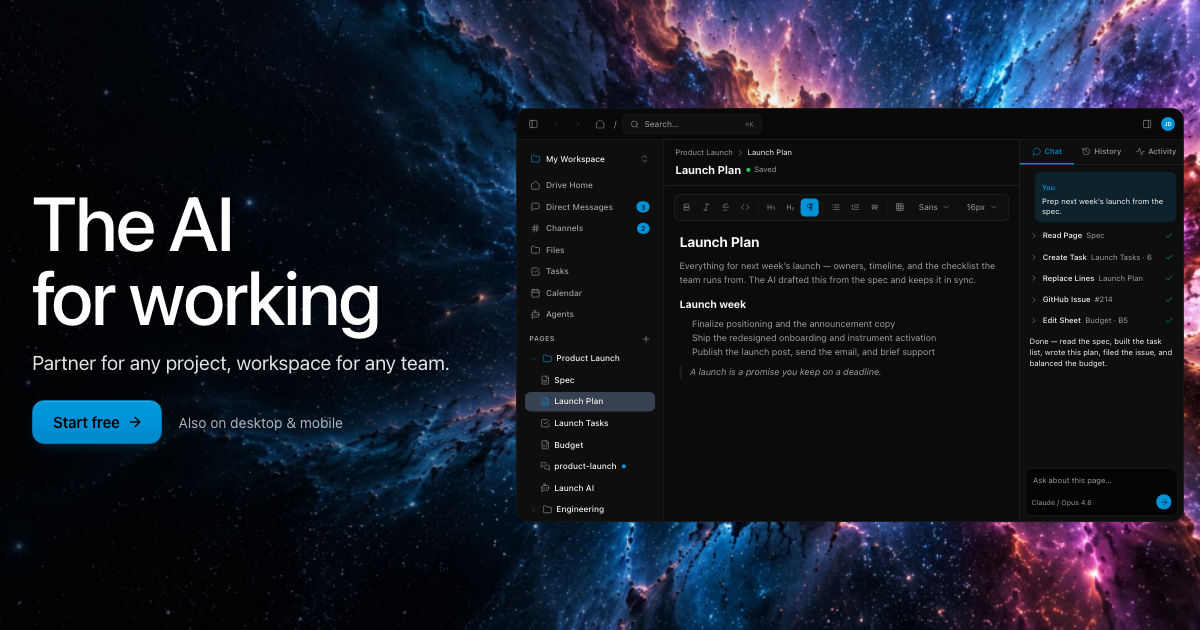
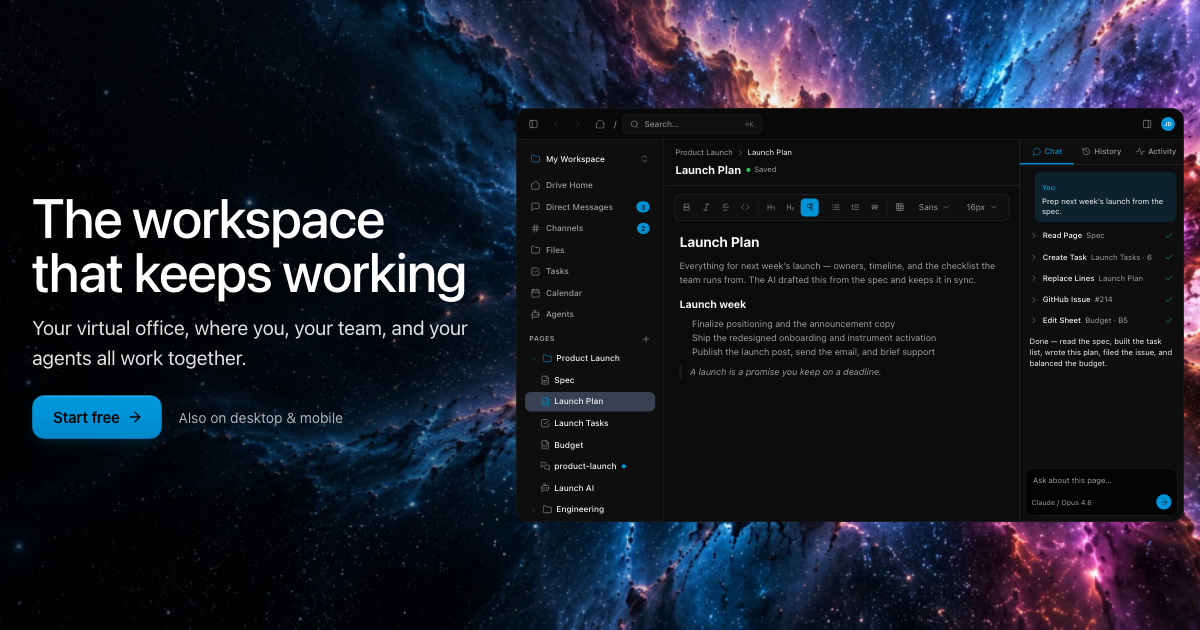
chore(marketing): recapture the social card with the current hero copy
Regenerated with `bun run capture:og` on its dedicated capture server;
the card still said "The AI for working".

Claude-Session: https://claude.ai/code/session_01JbSq1MtCUaNuYSLawmc8Gb

Changed region(s): [[0.0308, 0.3016, 0.4008, 0.7238], [0.1542, 0.6333, 0.2775, 0.6937]]

diff --git a/CHANGELOG.md b/CHANGELOG.md
@@ -7,6 +7,12 @@ All notable user-facing changes to PageSpace are documented here. Format follows
 
 ### Added
 
+- **The marketing site follows your system theme, and light mode has its own hero** — the site used
+  to open in dark mode for everyone, and its space hero only worked on a dark page. Light mode now
+  has a white version of the same scene with dark text over it, and the site starts in whatever
+  theme your device uses (a theme you picked with the toggle still wins). Switching themes, or your
+  device switching on its own, fades one hero picture into the other instead of cutting. The
+  preview card shown when a site link is shared now carries the current headline.
 - **The Home screen now tells you what's actually waiting for you** — opening the dashboard used
   to show a generic "How can I help you today?" with no sign of what changed across your drives,
   and the only place that context lived (the sidebar's Pulse note) disappeared the moment you
